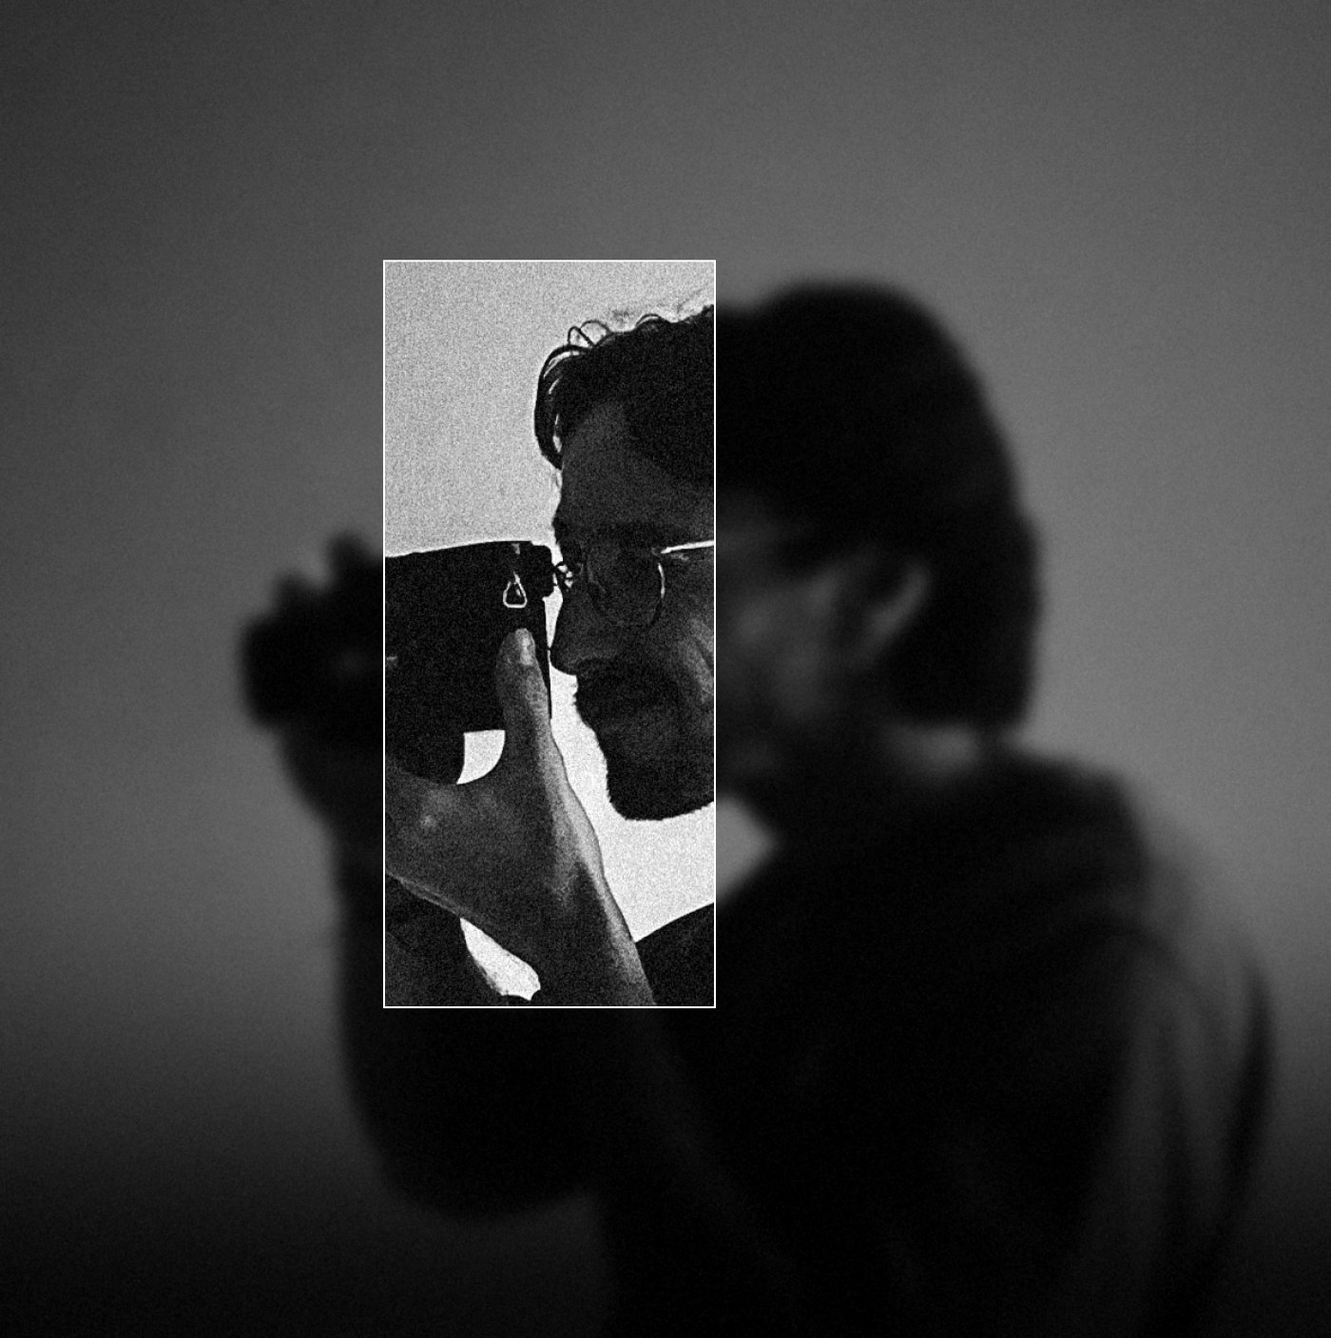
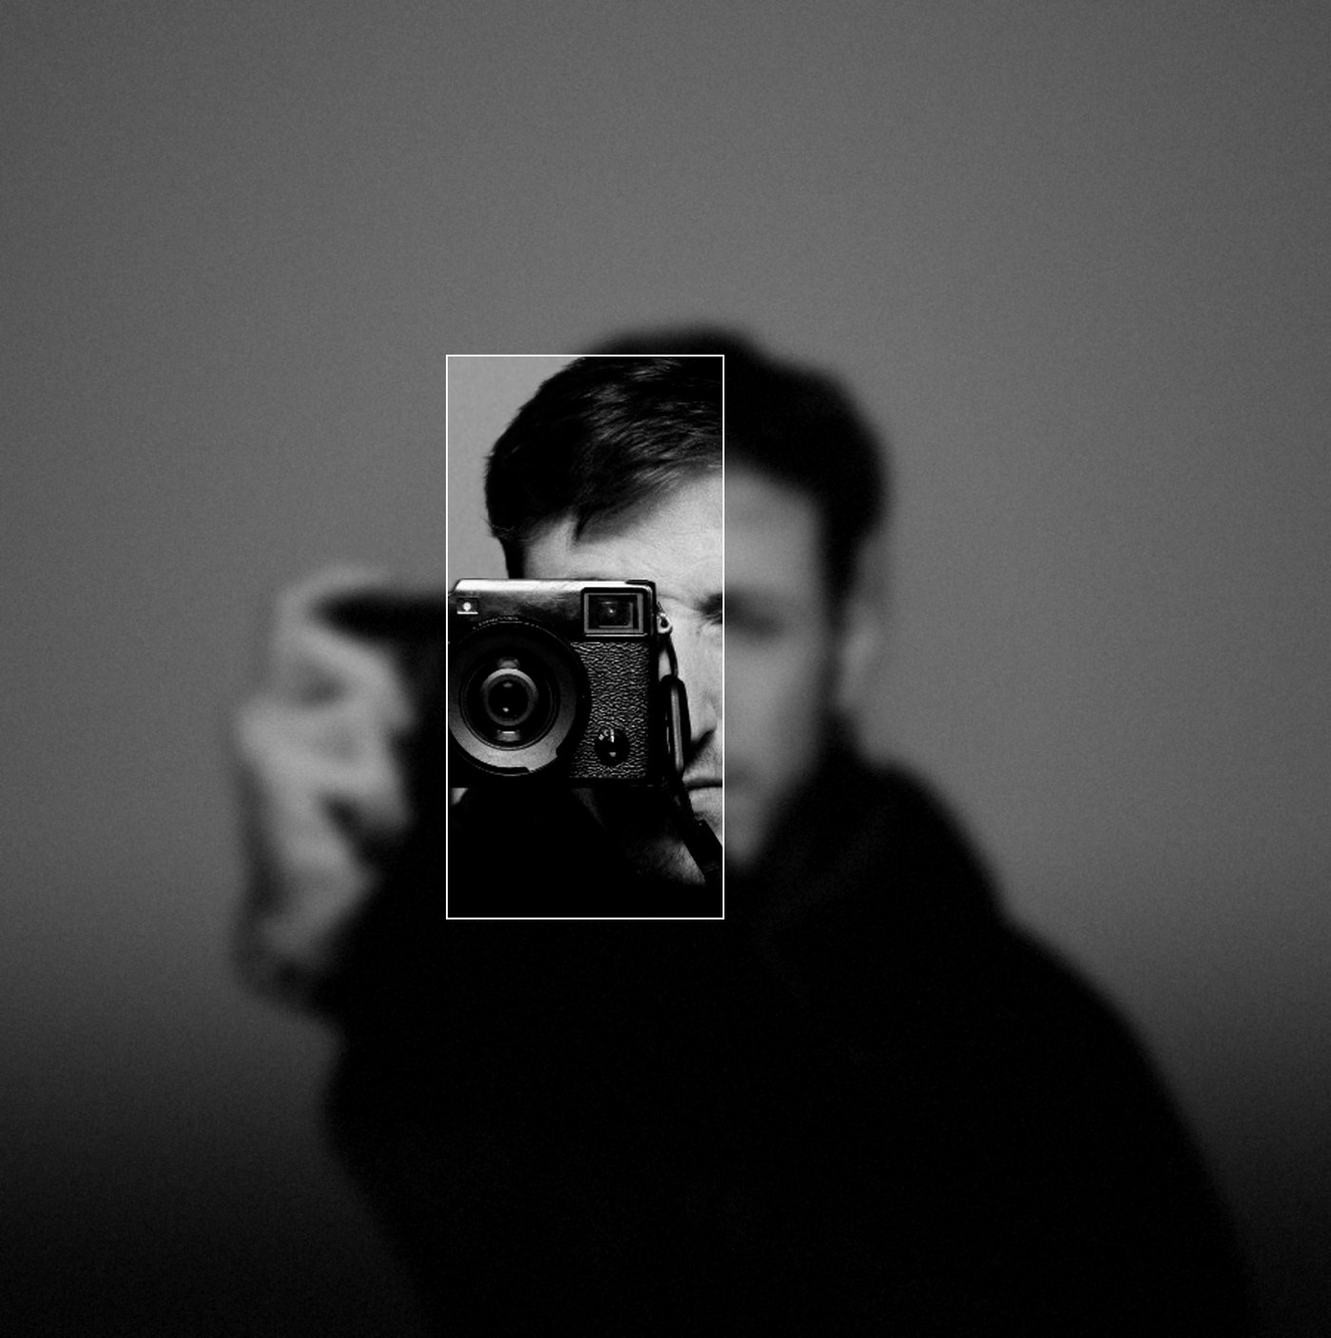
Prova 3: portada amb la foto al mirall, fons uniforme (no publicat a main)
Claude-Session: https://claude.ai/code/session_01Gu4fKh15S1mJkh4ThjJ3MW

diff --git a/index.html b/index.html
@@ -183,7 +183,7 @@ button.big{background:none;border:0;padding:0;font-family:inherit;text-align:lef
 <header class="bar" aria-hidden="true"><a class="wm" href="#inici">Pau Fotografia</a><nav><a href="#contacte" data-t="cont">Contacte</a></nav></header>
 <main class="page" id="inici">
   <section class="hero">
-    <picture><source media="(min-width:1200px)" srcset="/pack/hero-wide.jpg?v=prova5"><img src="/pack/hero.jpg?v=prova5" alt="Pau amb ulleres, fons desenfocat i una finestra nítida sobre mig rostre" fetchpriority="high"></picture>
+    <picture><source media="(min-width:1200px)" srcset="/pack/hero-wide.jpg?v=prova6"><img src="/pack/hero.jpg?v=prova6" alt="Pau amb ulleres, fons desenfocat i una finestra nítida sobre mig rostre" fetchpriority="high"></picture>
     <div class="top"><div class="sm" data-t="tag">Fotògraf social i documental</div>
       <div class="ctrls"><div class="toggle lang" role="group" aria-label="Idioma"><button class="on" data-lang="ca">CAT</button><span>|</span><button data-lang="es">ESP</button><span>|</span><button data-lang="en">ENG</button></div></div></div>
     <h1>Pau Fotografia</h1>
@@ -194,14 +194,14 @@ button.big{background:none;border:0;padding:0;font-family:inherit;text-align:lef
     <div class="quote"><p data-t="quote">«El document humà per mantenir el present i el futur en contacte amb el passat.»</p><div class="lb">Lewis Hine</div></div>
   </section>
   <div class="hl"></div>
-  <div class="slider multi sl-elvi" style="aspect-ratio:1080/1150"><div class="track"><figure class="slide"><img class="b" data-v="elvi" src="/pack/elvi-color.jpg?v=prova5" alt="Elvi somrient amb un floc de cabell davant la cara" loading="eager" style="object-position:50% 30%"><img class="o" data-v="elvi" src="/pack/elvi-bn.jpg?v=prova5" alt="" aria-hidden="true" loading="lazy" style="object-position:50% 30%"><button class="sw" type="button" aria-label="Veure en blanc i negre"><i></i></button></figure><figure class="slide"><img class="b" data-v="elvi-01" src="/pack/elvi-01-color.jpg?v=prova5" alt="Elvi amb les mans als cabells" loading="lazy" style="object-position:50% 30%"><img class="o" data-v="elvi-01" src="/pack/elvi-01-bn.jpg?v=prova5" alt="" aria-hidden="true" loading="lazy" style="object-position:50% 30%"><button class="sw" type="button" aria-label="Veure en blanc i negre"><i></i></button></figure><figure class="slide"><img class="b" data-v="elvi-03" src="/pack/elvi-03-color.jpg?v=prova5" alt="Elvi mirant de reüll" loading="lazy" style="object-position:50% 30%"><img class="o" data-v="elvi-03" src="/pack/elvi-03-bn.jpg?v=prova5" alt="" aria-hidden="true" loading="lazy" style="object-position:50% 30%"><button class="sw" type="button" aria-label="Veure en blanc i negre"><i></i></button></figure><figure class="slide"><img class="b" data-v="elvi-04" src="/pack/elvi-04-color.jpg?v=prova5" alt="Elvi de perfil a la finestra" loading="lazy" style="object-position:50% 30%"><img class="o" data-v="elvi-04" src="/pack/elvi-04-bn.jpg?v=prova5" alt="" aria-hidden="true" loading="lazy" style="object-position:50% 30%"><button class="sw" type="button" aria-label="Veure en blanc i negre"><i></i></button></figure><figure class="slide"><img class="b" data-v="elvi-05" src="/pack/elvi-05-color.jpg?v=prova5" alt="Elvi amb la llum de la cortina" loading="lazy" style="object-position:50% 30%"><img class="o" data-v="elvi-05" src="/pack/elvi-05-bn.jpg?v=prova5" alt="" aria-hidden="true" loading="lazy" style="object-position:50% 30%"><button class="sw" type="button" aria-label="Veure en blanc i negre"><i></i></button></figure></div><div class="dots"><i class=on></i><i></i><i></i><i></i><i></i></div><div class="count">1/5</div><button class="nav prev" aria-label="Anterior">‹</button><button class="nav next" aria-label="Següent">›</button></div>
+  <div class="slider multi sl-elvi" style="aspect-ratio:1080/1150"><div class="track"><figure class="slide"><img class="b" data-v="elvi" src="/pack/elvi-color.jpg?v=prova6" alt="Elvi somrient amb un floc de cabell davant la cara" loading="eager" style="object-position:50% 30%"><img class="o" data-v="elvi" src="/pack/elvi-bn.jpg?v=prova6" alt="" aria-hidden="true" loading="lazy" style="object-position:50% 30%"><button class="sw" type="button" aria-label="Veure en blanc i negre"><i></i></button></figure><figure class="slide"><img class="b" data-v="elvi-01" src="/pack/elvi-01-color.jpg?v=prova6" alt="Elvi amb les mans als cabells" loading="lazy" style="object-position:50% 30%"><img class="o" data-v="elvi-01" src="/pack/elvi-01-bn.jpg?v=prova6" alt="" aria-hidden="true" loading="lazy" style="object-position:50% 30%"><button class="sw" type="button" aria-label="Veure en blanc i negre"><i></i></button></figure><figure class="slide"><img class="b" data-v="elvi-03" src="/pack/elvi-03-color.jpg?v=prova6" alt="Elvi mirant de reüll" loading="lazy" style="object-position:50% 30%"><img class="o" data-v="elvi-03" src="/pack/elvi-03-bn.jpg?v=prova6" alt="" aria-hidden="true" loading="lazy" style="object-position:50% 30%"><button class="sw" type="button" aria-label="Veure en blanc i negre"><i></i></button></figure><figure class="slide"><img class="b" data-v="elvi-04" src="/pack/elvi-04-color.jpg?v=prova6" alt="Elvi de perfil a la finestra" loading="lazy" style="object-position:50% 30%"><img class="o" data-v="elvi-04" src="/pack/elvi-04-bn.jpg?v=prova6" alt="" aria-hidden="true" loading="lazy" style="object-position:50% 30%"><button class="sw" type="button" aria-label="Veure en blanc i negre"><i></i></button></figure><figure class="slide"><img class="b" data-v="elvi-05" src="/pack/elvi-05-color.jpg?v=prova6" alt="Elvi amb la llum de la cortina" loading="lazy" style="object-position:50% 30%"><img class="o" data-v="elvi-05" src="/pack/elvi-05-bn.jpg?v=prova6" alt="" aria-hidden="true" loading="lazy" style="object-position:50% 30%"><button class="sw" type="button" aria-label="Veure en blanc i negre"><i></i></button></figure></div><div class="dots"><i class=on></i><i></i><i></i><i></i><i></i></div><div class="count">1/5</div><button class="nav prev" aria-label="Anterior">‹</button><button class="nav next" aria-label="Següent">›</button></div>
   <div class="hl"></div>
   <section class="com pad">
     <div class="lb" data-t="com">Com treballo</div>
     <p class="body" data-t="ct">Sense estudi ni decorats, als llocs quotidians i còmodes. Tu tries l'espai i el vestuari. Jo m'adapto i interfereixo el mínim perquè la càmera no sigui un obstacle per captar aquell gest, somriure o mirada espontània i real.</p>
   </section>
   <div class="hl"></div>
-  <div class="pair"><div class="slider multi sl-nuvis" style="aspect-ratio:540/720"><div class="track"><figure class="slide"><img class="b" data-v="nuvis" src="/pack/nuvis-color.jpg?v=prova5" alt="Parella de nuvis rient a la porta" loading="lazy" style="object-position:50% 50%"><img class="o" data-v="nuvis" src="/pack/nuvis-bn.jpg?v=prova5" alt="" aria-hidden="true" loading="lazy" style="object-position:50% 50%"><button class="sw" type="button" aria-label="Veure en blanc i negre"><i></i></button></figure><figure class="slide"><img class="b" data-v="casament-pandemia-05" src="/pack/casament-pandemia-05-color.jpg?v=prova5" alt="Nuvis amb mascareta" loading="lazy" style="object-position:50% 50%"><img class="o" data-v="casament-pandemia-05" src="/pack/casament-pandemia-05-bn.jpg?v=prova5" alt="" aria-hidden="true" loading="lazy" style="object-position:50% 50%"><button class="sw" type="button" aria-label="Veure en blanc i negre"><i></i></button></figure><figure class="slide"><img class="b" data-v="casament-pandemia-02" src="/pack/casament-pandemia-02-color.jpg?v=prova5" alt="Ajustant el vestit" loading="lazy" style="object-position:50% 30%"><img class="o" data-v="casament-pandemia-02" src="/pack/casament-pandemia-02-bn.jpg?v=prova5" alt="" aria-hidden="true" loading="lazy" style="object-position:50% 30%"><button class="sw" type="button" aria-label="Veure en blanc i negre"><i></i></button></figure><figure class="slide mono"><img class="b" data-v="casament-pandemia-04" src="/pack/casament-pandemia-04-bn.jpg?v=prova5" alt="Sortida entre arròs" loading="lazy" style="object-position:50% 50%"></figure><figure class="slide mono"><img class="b" data-v="casament-pandemia-08" src="/pack/casament-pandemia-08-bn.jpg?v=prova5" alt="La cerimònia" loading="lazy" style="object-position:50% 50%"></figure><figure class="slide mono"><img class="b" data-v="casament-pandemia-01" src="/pack/casament-pandemia-01-bn.jpg?v=prova5" alt="Pentinat davant del mirall" loading="lazy" style="object-position:50% 50%"></figure></div><div class="dots"><i class=on></i><i></i><i></i><i></i><i></i><i></i></div><div class="count">1/6</div><button class="nav prev" aria-label="Anterior">‹</button><button class="nav next" aria-label="Següent">›</button></div><div class="slider multi sl-maneta" style="aspect-ratio:540/720"><div class="track"><figure class="slide"><img class="b" data-v="maneta" src="/pack/maneta-color.jpg?v=prova5" alt="Mà d’un nadó sobre la pell" loading="lazy" style="object-position:50% 50%"><img class="o" data-v="maneta" src="/pack/maneta-bn.jpg?v=prova5" alt="" aria-hidden="true" loading="lazy" style="object-position:50% 50%"><button class="sw" type="button" aria-label="Veure en blanc i negre"><i></i></button></figure><figure class="slide mono"><img class="b" data-v="familia-05" src="/pack/familia-05-bn.jpg?v=prova5" alt="Peus petits" loading="lazy" style="object-position:50% 50%"></figure><figure class="slide"><img class="b" data-v="familia-07" src="/pack/familia-07-color.jpg?v=prova5" alt="La mà a l’esquena" loading="lazy" style="object-position:50% 50%"><img class="o" data-v="familia-07" src="/pack/familia-07-bn.jpg?v=prova5" alt="" aria-hidden="true" loading="lazy" style="object-position:50% 50%"><button class="sw" type="button" aria-label="Veure en blanc i negre"><i></i></button></figure></div><div class="dots"><i class=on></i><i></i><i></i></div><div class="count">1/3</div><button class="nav prev" aria-label="Anterior">‹</button><button class="nav next" aria-label="Següent">›</button></div></div>
+  <div class="pair"><div class="slider multi sl-nuvis" style="aspect-ratio:540/720"><div class="track"><figure class="slide"><img class="b" data-v="nuvis" src="/pack/nuvis-color.jpg?v=prova6" alt="Parella de nuvis rient a la porta" loading="lazy" style="object-position:50% 50%"><img class="o" data-v="nuvis" src="/pack/nuvis-bn.jpg?v=prova6" alt="" aria-hidden="true" loading="lazy" style="object-position:50% 50%"><button class="sw" type="button" aria-label="Veure en blanc i negre"><i></i></button></figure><figure class="slide"><img class="b" data-v="casament-pandemia-05" src="/pack/casament-pandemia-05-color.jpg?v=prova6" alt="Nuvis amb mascareta" loading="lazy" style="object-position:50% 50%"><img class="o" data-v="casament-pandemia-05" src="/pack/casament-pandemia-05-bn.jpg?v=prova6" alt="" aria-hidden="true" loading="lazy" style="object-position:50% 50%"><button class="sw" type="button" aria-label="Veure en blanc i negre"><i></i></button></figure><figure class="slide"><img class="b" data-v="casament-pandemia-02" src="/pack/casament-pandemia-02-color.jpg?v=prova6" alt="Ajustant el vestit" loading="lazy" style="object-position:50% 30%"><img class="o" data-v="casament-pandemia-02" src="/pack/casament-pandemia-02-bn.jpg?v=prova6" alt="" aria-hidden="true" loading="lazy" style="object-position:50% 30%"><button class="sw" type="button" aria-label="Veure en blanc i negre"><i></i></button></figure><figure class="slide mono"><img class="b" data-v="casament-pandemia-04" src="/pack/casament-pandemia-04-bn.jpg?v=prova6" alt="Sortida entre arròs" loading="lazy" style="object-position:50% 50%"></figure><figure class="slide mono"><img class="b" data-v="casament-pandemia-08" src="/pack/casament-pandemia-08-bn.jpg?v=prova6" alt="La cerimònia" loading="lazy" style="object-position:50% 50%"></figure><figure class="slide mono"><img class="b" data-v="casament-pandemia-01" src="/pack/casament-pandemia-01-bn.jpg?v=prova6" alt="Pentinat davant del mirall" loading="lazy" style="object-position:50% 50%"></figure></div><div class="dots"><i class=on></i><i></i><i></i><i></i><i></i><i></i></div><div class="count">1/6</div><button class="nav prev" aria-label="Anterior">‹</button><button class="nav next" aria-label="Següent">›</button></div><div class="slider multi sl-maneta" style="aspect-ratio:540/720"><div class="track"><figure class="slide"><img class="b" data-v="maneta" src="/pack/maneta-color.jpg?v=prova6" alt="Mà d’un nadó sobre la pell" loading="lazy" style="object-position:50% 50%"><img class="o" data-v="maneta" src="/pack/maneta-bn.jpg?v=prova6" alt="" aria-hidden="true" loading="lazy" style="object-position:50% 50%"><button class="sw" type="button" aria-label="Veure en blanc i negre"><i></i></button></figure><figure class="slide mono"><img class="b" data-v="familia-05" src="/pack/familia-05-bn.jpg?v=prova6" alt="Peus petits" loading="lazy" style="object-position:50% 50%"></figure><figure class="slide"><img class="b" data-v="familia-07" src="/pack/familia-07-color.jpg?v=prova6" alt="La mà a l’esquena" loading="lazy" style="object-position:50% 50%"><img class="o" data-v="familia-07" src="/pack/familia-07-bn.jpg?v=prova6" alt="" aria-hidden="true" loading="lazy" style="object-position:50% 50%"><button class="sw" type="button" aria-label="Veure en blanc i negre"><i></i></button></figure></div><div class="dots"><i class=on></i><i></i><i></i></div><div class="count">1/3</div><button class="nav prev" aria-label="Anterior">‹</button><button class="nav next" aria-label="Següent">›</button></div></div>
   <div class="hl"></div>
   <section class="pack">
     <div class="prow"><div class="pill" data-t="pack">Pack promocional – Llançament</div><div class="price">89 €<span class="ast">*</span></div>
@@ -209,9 +209,9 @@ button.big{background:none;border:0;padding:0;font-family:inherit;text-align:lef
     <div class="ptypes" data-t="tipus"><span>Retrat</span><i>·</i><span>Família</span><i>·</i><span>Embaràs</span><i>·</i><span>Parella</span></div>
   </section>
   <div class="hl"></div>
-  <div class="slider sl-mocador" style="aspect-ratio:1080/720"><div class="track"><figure class="slide"><img class="b" data-v="mocador" src="/pack/mocador-color.jpg?v=prova5" alt="Retrat d’una dona amb mocador entre el fum" loading="lazy" style="object-position:50% 40%"><img class="o" data-v="mocador" src="/pack/mocador-bn.jpg?v=prova5" alt="" aria-hidden="true" loading="lazy" style="object-position:50% 40%"><button class="sw" type="button" aria-label="Veure en blanc i negre"><i></i></button></figure></div></div>
+  <div class="slider sl-mocador" style="aspect-ratio:1080/720"><div class="track"><figure class="slide"><img class="b" data-v="mocador" src="/pack/mocador-color.jpg?v=prova6" alt="Retrat d’una dona amb mocador entre el fum" loading="lazy" style="object-position:50% 40%"><img class="o" data-v="mocador" src="/pack/mocador-bn.jpg?v=prova6" alt="" aria-hidden="true" loading="lazy" style="object-position:50% 40%"><button class="sw" type="button" aria-label="Veure en blanc i negre"><i></i></button></figure></div></div>
   <div class="hl"></div>
-  <div class="pair"><div class="slider multi sl-ulleres" style="aspect-ratio:540/720"><div class="track"><figure class="slide"><img class="b" data-v="ulleres" src="/pack/ulleres-color.jpg?v=prova5" alt="Home rient amb ulleres de sol" loading="lazy" style="object-position:50% 50%"><img class="o" data-v="ulleres" src="/pack/ulleres-bn.jpg?v=prova5" alt="" aria-hidden="true" loading="lazy" style="object-position:50% 50%"><button class="sw" type="button" aria-label="Veure en blanc i negre"><i></i></button></figure><figure class="slide"><img class="b" data-v="llum-desembre-05" src="/pack/llum-desembre-05-color.jpg?v=prova5" alt="Cara al sol" loading="lazy" style="object-position:64% 50%"><img class="o" data-v="llum-desembre-05" src="/pack/llum-desembre-05-bn.jpg?v=prova5" alt="" aria-hidden="true" loading="lazy" style="object-position:64% 50%"><button class="sw" type="button" aria-label="Veure en blanc i negre"><i></i></button></figure><figure class="slide"><img class="b" data-v="llum-desembre-02" src="/pack/llum-desembre-02-color.jpg?v=prova5" alt="Somriure amb caputxa" loading="lazy" style="object-position:52% 50%"><img class="o" data-v="llum-desembre-02" src="/pack/llum-desembre-02-bn.jpg?v=prova5" alt="" aria-hidden="true" loading="lazy" style="object-position:52% 50%"><button class="sw" type="button" aria-label="Veure en blanc i negre"><i></i></button></figure><figure class="slide"><img class="b" data-v="llum-desembre-04" src="/pack/llum-desembre-04-color.jpg?v=prova5" alt="Per sobre de les ulleres" loading="lazy" style="object-position:56% 50%"><img class="o" data-v="llum-desembre-04" src="/pack/llum-desembre-04-bn.jpg?v=prova5" alt="" aria-hidden="true" loading="lazy" style="object-position:56% 50%"><button class="sw" type="button" aria-label="Veure en blanc i negre"><i></i></button></figure><figure class="slide"><img class="b" data-v="llum-desembre-01" src="/pack/llum-desembre-01-color.jpg?v=prova5" alt="Mitja cara a la llum" loading="lazy" style="object-position:54% 50%"><img class="o" data-v="llum-desembre-01" src="/pack/llum-desembre-01-bn.jpg?v=prova5" alt="" aria-hidden="true" loading="lazy" style="object-position:54% 50%"><button class="sw" type="button" aria-label="Veure en blanc i negre"><i></i></button></figure></div><div class="dots"><i class=on></i><i></i><i></i><i></i><i></i></div><div class="count">1/5</div><button class="nav prev" aria-label="Anterior">‹</button><button class="nav next" aria-label="Següent">›</button></div><div class="slider multi sl-confeti" style="aspect-ratio:540/720"><div class="track"><figure class="slide"><img class="b" data-v="confeti" src="/pack/confeti-color.jpg?v=prova5" alt="Nuvis sortint entre confeti amb el ram a l’aire" loading="lazy" style="object-position:64% 50%"><img class="o" data-v="confeti" src="/pack/confeti-bn.jpg?v=prova5" alt="" aria-hidden="true" loading="lazy" style="object-position:64% 50%"><button class="sw" type="button" aria-label="Veure en blanc i negre"><i></i></button></figure><figure class="slide"><img class="b" data-v="casament-01" src="/pack/casament-01-color.jpg?v=prova5" alt="Sortida entre confeti" loading="lazy" style="object-position:55% 50%"><img class="o" data-v="casament-01" src="/pack/casament-01-bn.jpg?v=prova5" alt="" aria-hidden="true" loading="lazy" style="object-position:55% 50%"><button class="sw" type="button" aria-label="Veure en blanc i negre"><i></i></button></figure></div><div class="dots"><i class=on></i><i></i></div><div class="count">1/2</div><button class="nav prev" aria-label="Anterior">‹</button><button class="nav next" aria-label="Següent">›</button></div></div>
+  <div class="pair"><div class="slider multi sl-ulleres" style="aspect-ratio:540/720"><div class="track"><figure class="slide"><img class="b" data-v="ulleres" src="/pack/ulleres-color.jpg?v=prova6" alt="Home rient amb ulleres de sol" loading="lazy" style="object-position:50% 50%"><img class="o" data-v="ulleres" src="/pack/ulleres-bn.jpg?v=prova6" alt="" aria-hidden="true" loading="lazy" style="object-position:50% 50%"><button class="sw" type="button" aria-label="Veure en blanc i negre"><i></i></button></figure><figure class="slide"><img class="b" data-v="llum-desembre-05" src="/pack/llum-desembre-05-color.jpg?v=prova6" alt="Cara al sol" loading="lazy" style="object-position:64% 50%"><img class="o" data-v="llum-desembre-05" src="/pack/llum-desembre-05-bn.jpg?v=prova6" alt="" aria-hidden="true" loading="lazy" style="object-position:64% 50%"><button class="sw" type="button" aria-label="Veure en blanc i negre"><i></i></button></figure><figure class="slide"><img class="b" data-v="llum-desembre-02" src="/pack/llum-desembre-02-color.jpg?v=prova6" alt="Somriure amb caputxa" loading="lazy" style="object-position:52% 50%"><img class="o" data-v="llum-desembre-02" src="/pack/llum-desembre-02-bn.jpg?v=prova6" alt="" aria-hidden="true" loading="lazy" style="object-position:52% 50%"><button class="sw" type="button" aria-label="Veure en blanc i negre"><i></i></button></figure><figure class="slide"><img class="b" data-v="llum-desembre-04" src="/pack/llum-desembre-04-color.jpg?v=prova6" alt="Per sobre de les ulleres" loading="lazy" style="object-position:56% 50%"><img class="o" data-v="llum-desembre-04" src="/pack/llum-desembre-04-bn.jpg?v=prova6" alt="" aria-hidden="true" loading="lazy" style="object-position:56% 50%"><button class="sw" type="button" aria-label="Veure en blanc i negre"><i></i></button></figure><figure class="slide"><img class="b" data-v="llum-desembre-01" src="/pack/llum-desembre-01-color.jpg?v=prova6" alt="Mitja cara a la llum" loading="lazy" style="object-position:54% 50%"><img class="o" data-v="llum-desembre-01" src="/pack/llum-desembre-01-bn.jpg?v=prova6" alt="" aria-hidden="true" loading="lazy" style="object-position:54% 50%"><button class="sw" type="button" aria-label="Veure en blanc i negre"><i></i></button></figure></div><div class="dots"><i class=on></i><i></i><i></i><i></i><i></i></div><div class="count">1/5</div><button class="nav prev" aria-label="Anterior">‹</button><button class="nav next" aria-label="Següent">›</button></div><div class="slider multi sl-confeti" style="aspect-ratio:540/720"><div class="track"><figure class="slide"><img class="b" data-v="confeti" src="/pack/confeti-color.jpg?v=prova6" alt="Nuvis sortint entre confeti amb el ram a l’aire" loading="lazy" style="object-position:64% 50%"><img class="o" data-v="confeti" src="/pack/confeti-bn.jpg?v=prova6" alt="" aria-hidden="true" loading="lazy" style="object-position:64% 50%"><button class="sw" type="button" aria-label="Veure en blanc i negre"><i></i></button></figure><figure class="slide"><img class="b" data-v="casament-01" src="/pack/casament-01-color.jpg?v=prova6" alt="Sortida entre confeti" loading="lazy" style="object-position:55% 50%"><img class="o" data-v="casament-01" src="/pack/casament-01-bn.jpg?v=prova6" alt="" aria-hidden="true" loading="lazy" style="object-position:55% 50%"><button class="sw" type="button" aria-label="Veure en blanc i negre"><i></i></button></figure></div><div class="dots"><i class=on></i><i></i></div><div class="count">1/2</div><button class="nav prev" aria-label="Anterior">‹</button><button class="nav next" aria-label="Següent">›</button></div></div>
   <div class="hl"></div>
   <section class="contact pad" id="contacte">
     <div class="gear">
@@ -244,7 +244,7 @@ document.querySelectorAll('.slider.multi').forEach(function(s){
 var MODE='color';
 function L(){var l=document.documentElement.lang;return {ca:{swb:'Veure en blanc i negre',swc:'Veure en color'},es:{swb:'Ver en blanco y negro',swc:'Ver en color'},en:{swb:'View in black and white',swc:'View in colour'}}[l]||{swb:'Veure en blanc i negre',swc:'Veure en color'}}
 function other(){return MODE==='bn'?'color':'bn'}
-function src2(o){return '/pack/'+o.dataset.v+'-'+other()+'.jpg?v=prova5'}
+function src2(o){return '/pack/'+o.dataset.v+'-'+other()+'.jpg?v=prova6'}
 function setX(f,x,anim){
   var o=f.querySelector('.o');if(!o.getAttribute('src'))o.src=src2(o);
   f.classList.toggle('drag',!anim);f._x=x;
